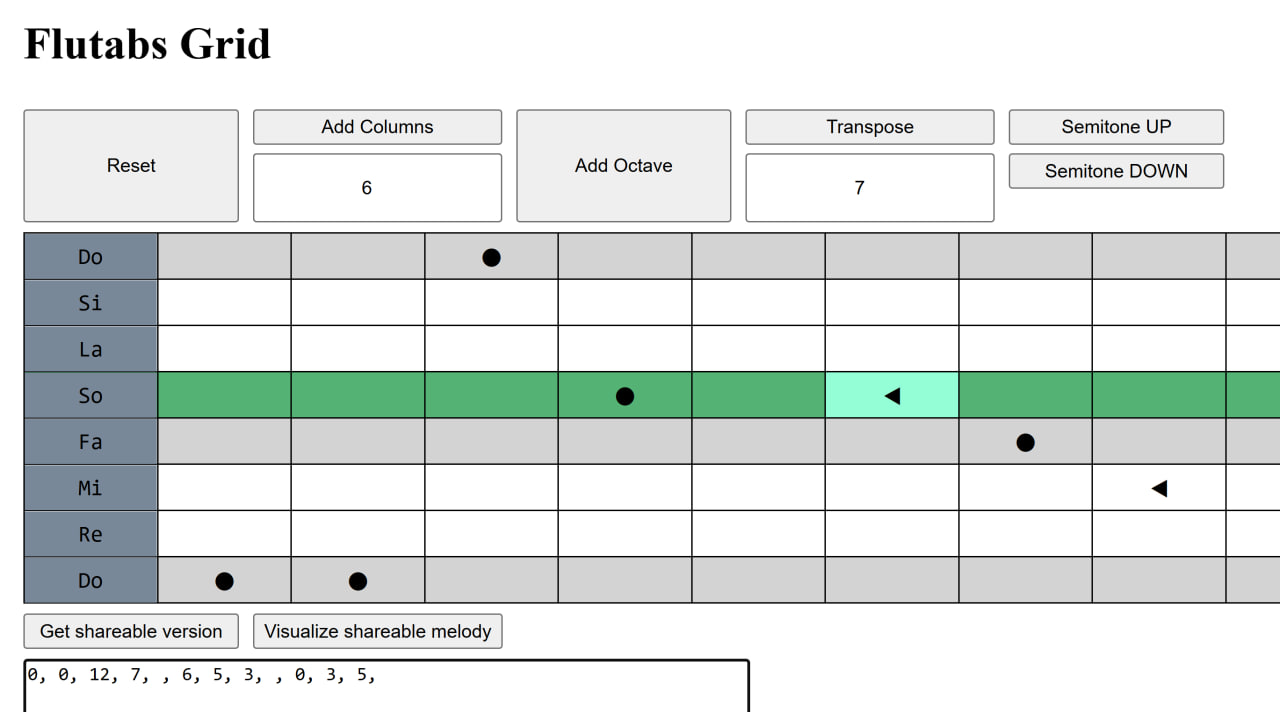
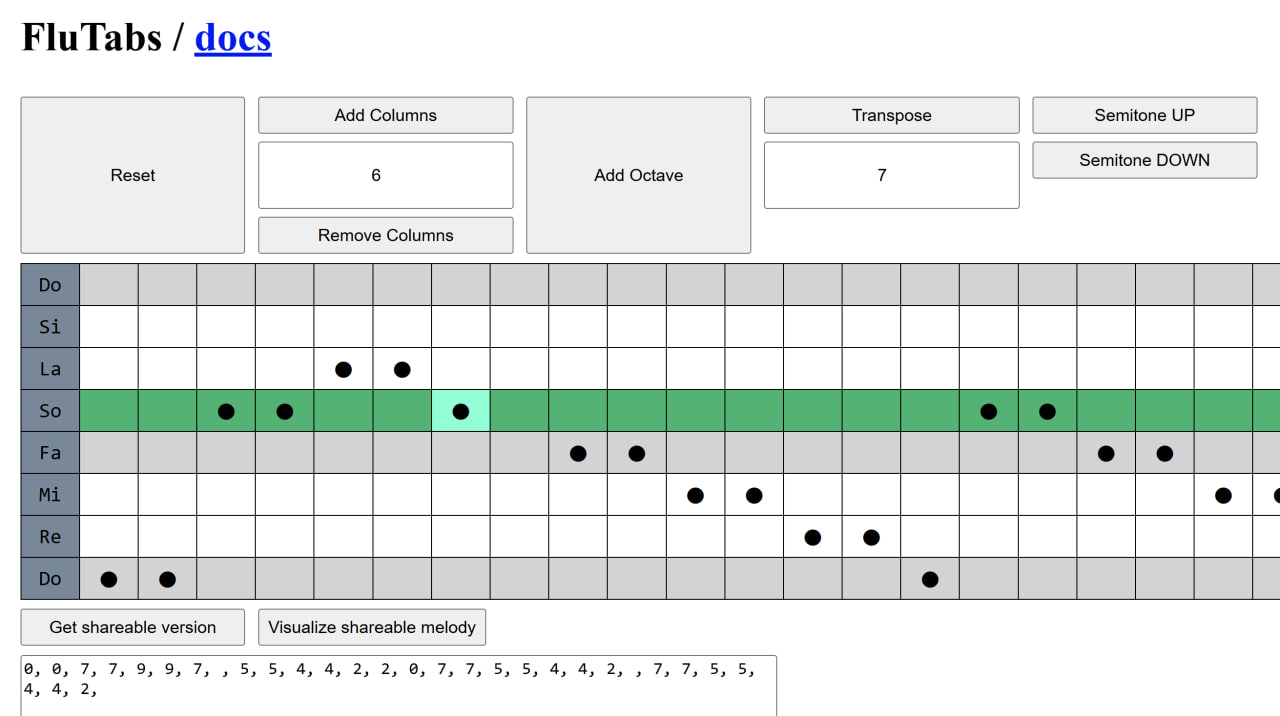
docs: update interface image & add info on octave/columns manipulation

diff --git a/README.md b/README.md
@@ -46,9 +46,12 @@ So here comes FluTabs to land me a hand. How:
 - When melody is loaded - it trims automatically so empty edges are dropped out.
 - Edit the melody both by clicking or by changing the semitones string in the input field.
 - Traspose melodies by a number of semitones or push them step by step via +1 or -1 button.
+- When transposing - FluTabs will delete unused octaves from the top of the grid.
 - Left menu with note names sticks to the screen even if you scroll far horizontally.
 - See whole row highlighted when you hover with mouse for easier note identification.
 - Use "Reset" button to start anew.
+- Add octave above the current one.
+- Add or delete a number of columns from the end of the grid.
 - Several melodies come included - with a single click you can try some popular tunes:
   - Deep Purple - Smoke on the Water. Short, simple, ideal to test FluTabs features.
   - Twinkle Twinkle little star. Almost an octave wide, simple.
